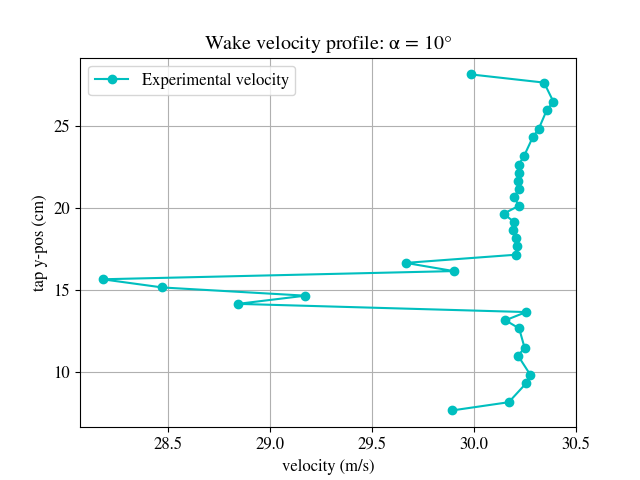
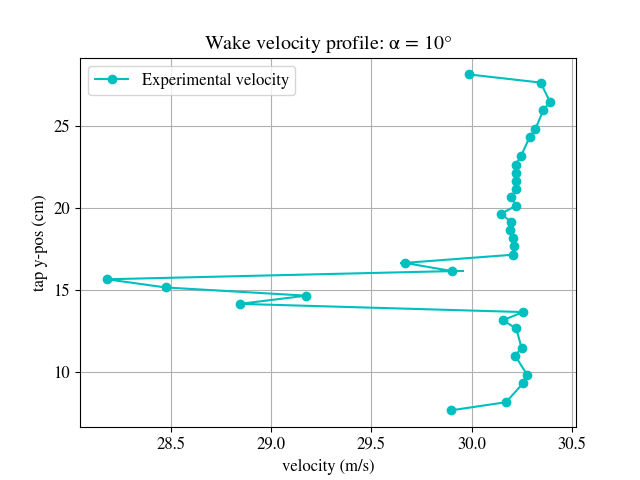
fixed some stuff

diff --git a/src/Velocity.py b/src/Velocity.py
@@ -56,30 +56,32 @@ def Velocity(p_r1: np.array, p_r2: np.array, p_r1_err: np.array, p_r2_err: np.ar
     P_combined = []
     P_combined_err = []
     V_r_err = []
+
+    print(p_r1_err)
     
     if pos_r1[0]<pos_r2[0]:
         for i in range(len(V_pos)):
             if i%2 == 0:
                 P_combined.append(p_r1[0][int(i/2)])
-                P_combined_err.append(p_r1_err[int(i/2)])
+                P_combined_err.append(p_r1_err[0][int(i/2)])
                 V_r.append(v_r1[0][int(i/2)])
                 V_r_err.append(v_r1_err[0][int(i/2)])
             else:
                 V_r.append(v_r2[0][int((i-1)/2)])
                 P_combined.append(p_r2[0][int((i-1)/2)])
-                P_combined_err.append(p_r2_err[int((i-1)/2)])
+                P_combined_err.append(p_r2_err[0][int((i-1)/2)])
                 V_r_err.append(v_r2_err[0][int((i-1)/2)])
     else:
         for i in range(len(V_pos)):
             if i%2 == 0:
                 V_r.append(v_r2[0][int(i/2)])
                 P_combined.append(p_r2[0][int(i/2)])
-                P_combined_err.append(p_r2_err[int(i/2)])
+                P_combined_err.append(p_r2_err[0][int(i/2)])
                 V_r_err.append(v_r2_err[0][int(i/2)])
             else:
                 V_r.append(v_r1[0][int((i-1)/2)])
                 P_combined.append(p_r1[0][int((i-1)/2)])
-                P_combined_err.append(p_r1_err[int((i-1)/2)])
+                P_combined_err.append(p_r1_err[0][int((i-1)/2)])
                 V_r_err.append(v_r1_err[0][int((i-1)/2)])
 
     return U_inf, U_inf_err, V_r, V_r_err, V_pos, P_combined, P_combined_err

diff --git a/src/main.py b/src/main.py
@@ -100,16 +100,16 @@ for i,a in enumerate(alpha):
         data_err_a = [eval(e) for e in data_err_a[i]]
         p_top_err = data_err_a[0:12]
         p_bot_err = data_err_a[12:19]
-    if i == 0:
-        with open('data\CSV\dP_rakepos1.csv') as f:
-            reader = csv.reader(f)
-            data_err_r1 = list(map(np.float64,reader))
-            p_r1_err = np.array(data_err_r1)
+    with open('data\CSV\dP_rakepos1.csv') as f:
+        reader = csv.reader(f)
+        data_err_r1 = list(map(np.float64,reader))
+        p_r1_err = np.array(data_err_r1)
 
-        with open('data\CSV\dP_rakepos2.csv') as f:
-            reader = csv.reader(f)
-            data_err_r2 = list(map(np.float64,reader))
-            p_r2_err = np.array(data_err_r2)
+    with open('data\CSV\dP_rakepos2.csv') as f:
+        reader = csv.reader(f)
+        data_err_r2 = list(map(np.float64,reader))
+        p_r2_err = np.array(data_err_r2)
+
 
     # finding the wake velocity distribution:
     pos_r1 = y_0[i]
@@ -121,10 +121,8 @@ for i,a in enumerate(alpha):
     VelGraph(a, V_r, V_r_err, V_pos)
 
 
-    
     #finding the dynamic freestream pressure
     q_inf, q_inf_err = DynPressure(U_inf, U_inf_err)
-
 
 
     #finding the Cp distribution over the airfoil

diff --git a/src/Uncertainty.py b/src/Uncertainty.py
@@ -49,7 +49,7 @@ def DataErr(raw_p: np.array):
     dt = 1/30000
     T = np.trapz(Bxx[:lim], dx=dt) 
 
-    N = len(raw_p)/(2*T) * dt
+    N = len(raw_p)/(2*T)*dt
     std = np.std(raw_p)
     dP = 1.96*std/np.sqrt(N)
 
